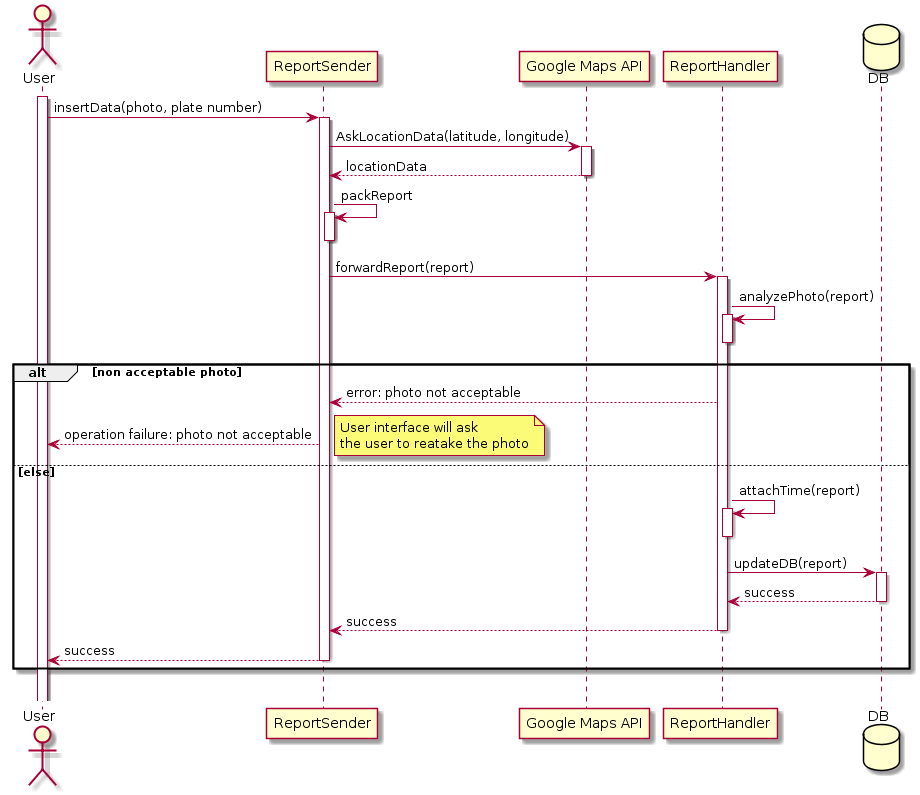
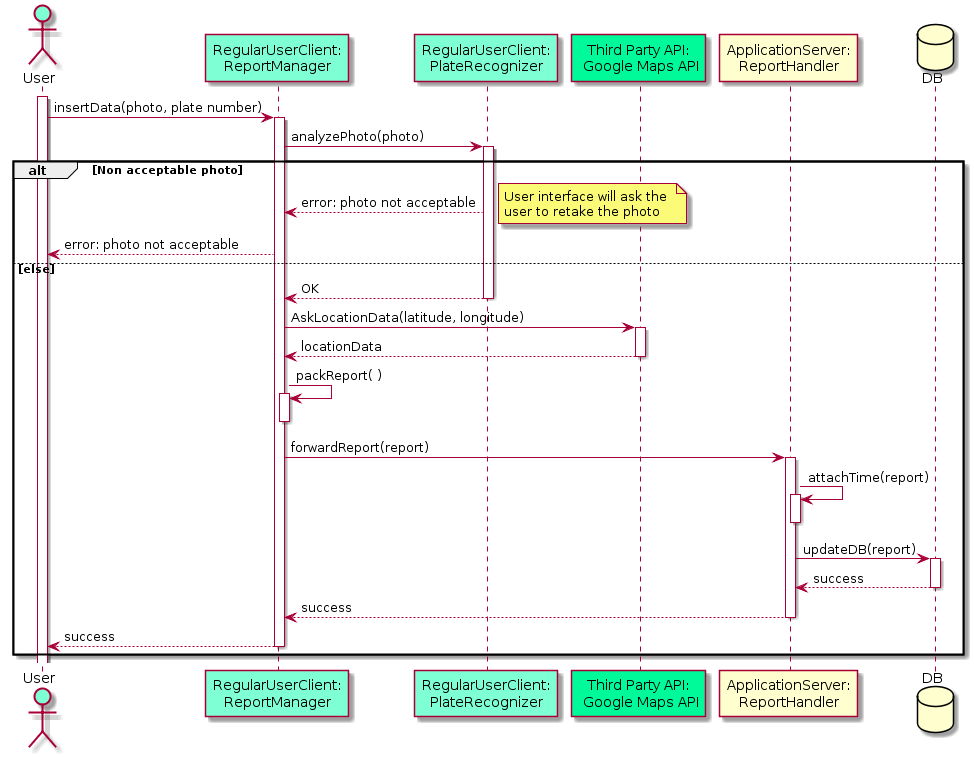
Improvements to sequence diagram clarity

Changed region(s): [[0.0, 0.0, 1.0, 1.0], [0.7609, 0.2127, 0.8217, 0.2431], [0.6087, 0.3342, 0.6696, 0.3646]]

diff --git a/DD/Files/architectural.tex b/DD/Files/architectural.tex
@@ -134,7 +134,10 @@ Please note that Google servers have not been included, since those servers will
 \newpage
 
 \subsection{Runtime view}
-In this section the main functionalities of the system are analyzed through the use of sequnce diagrams. The participants involved in the diagrams are either system componets (from client and server side) or external services APIs (e.g. Google Maps API) previuosly specified in this document.
+In this section the main functionalities of the system are analyzed through the use of sequence diagrams. The participants involved in the diagrams are either system componets (from client and server side) or external services APIs (e.g. Google Maps API) previuosly specified in this document.\newline
+A colour schema has been used in order to increase diagram clarity: Client components are represented with light blue labels; Server components with yellow labels; third party API with green labels.
+
+\medskip
 
 \begin{figure}[H]
 	\centering
